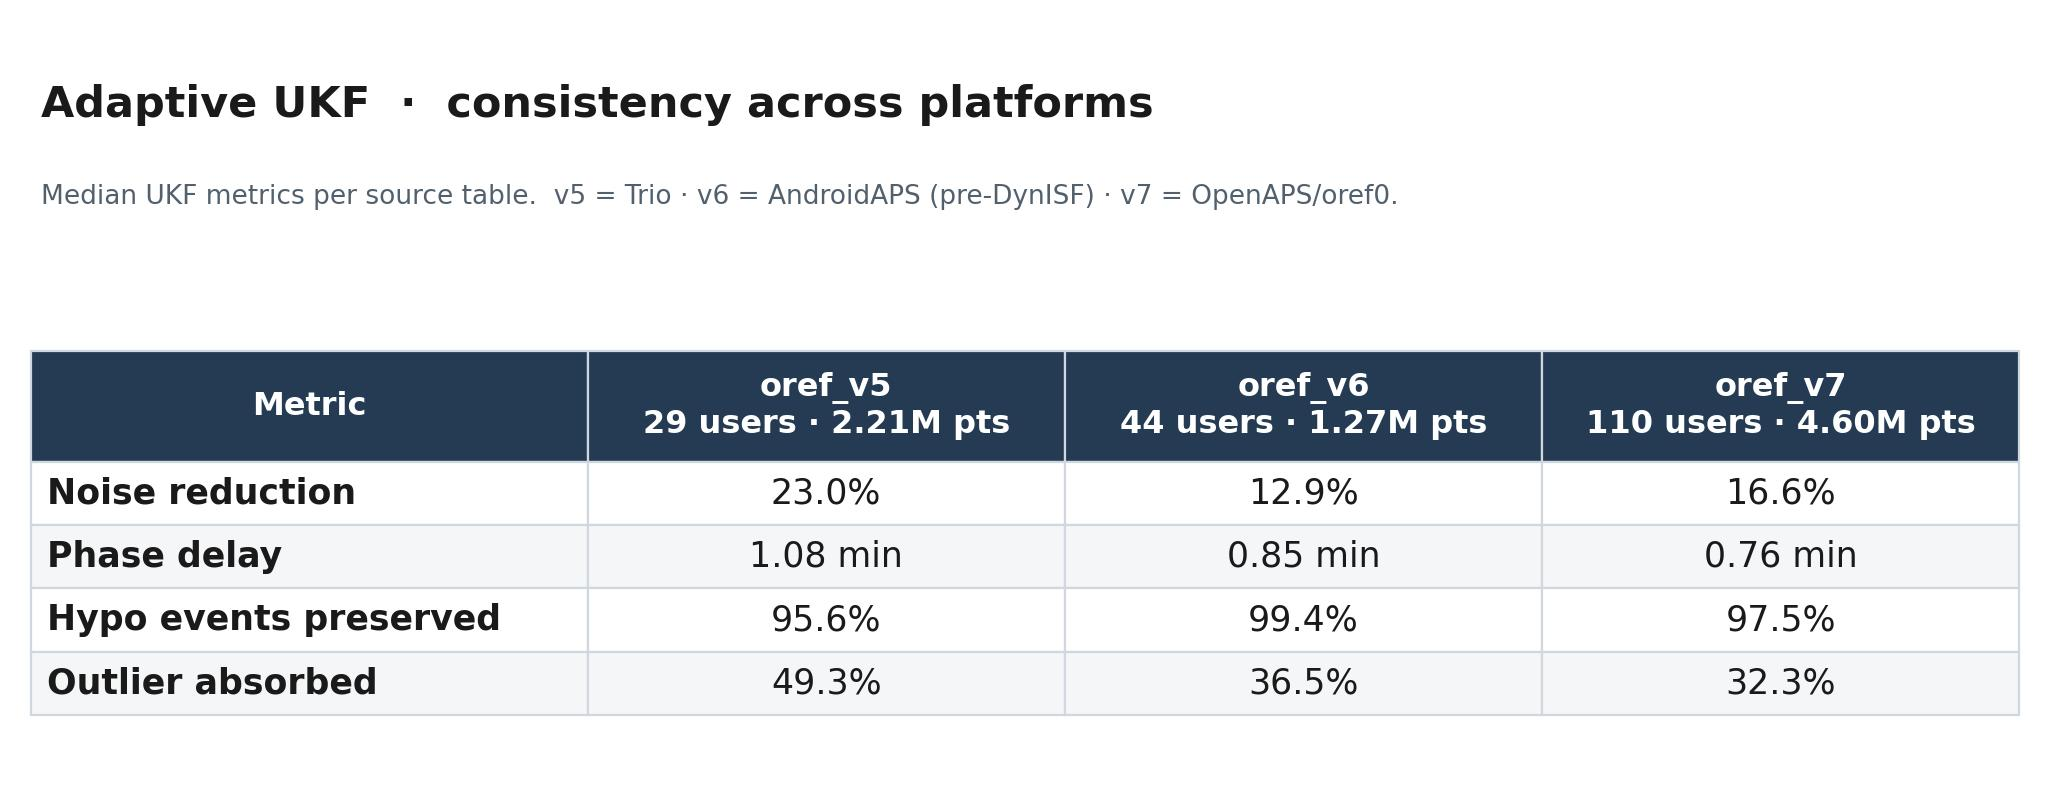
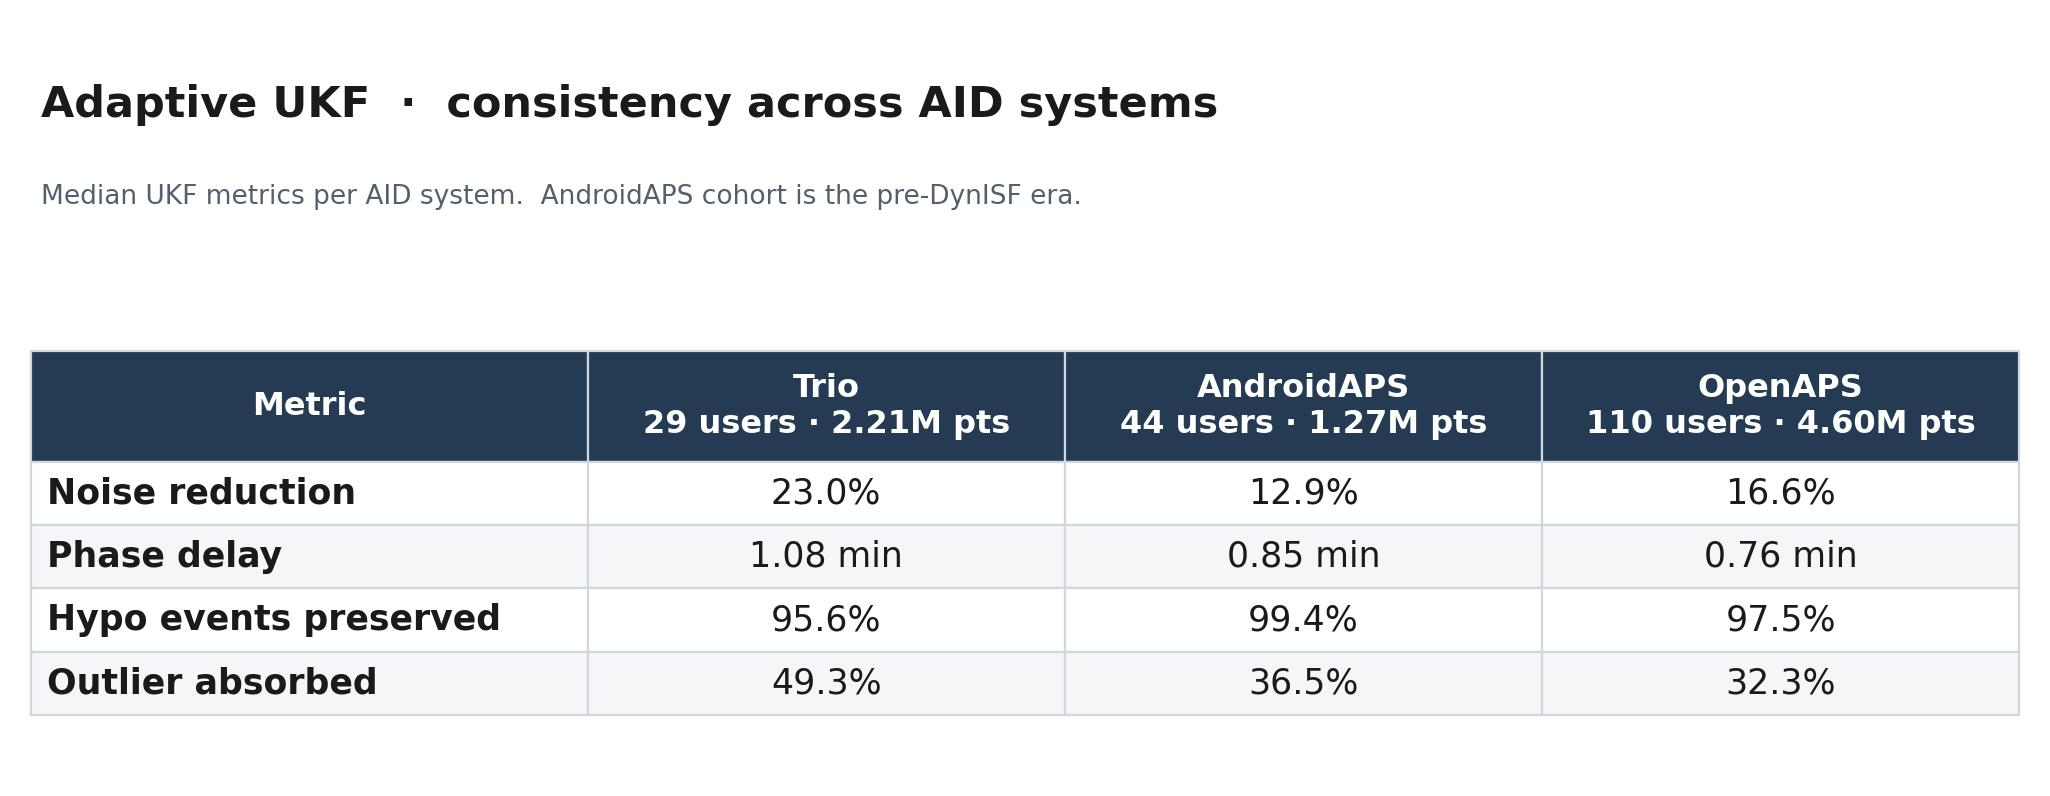
Label cohorts by AID system (Trio/AndroidAPS/OpenAPS) not oref_vx
Replace the oref_v5/v6/v7 table-name convention with the AID system name in
the reporting outputs (table figures + reports_full/README). Source-table
names kept as a one-line provenance footnote.

Claude-Session: https://claude.ai/code/session_01Va1xSAxXBTUAheaeKcDBGe

diff --git a/reports_full/make_tables.py b/reports_full/make_tables.py
@@ -88,10 +88,10 @@ render(
 # ---- Table 2: per-platform UKF breakdown ----
 render(
     "table2_ukf_by_platform.jpg",
-    "Adaptive UKF  ·  consistency across platforms",
-    "Median UKF metrics per source table.  v5 = Trio · v6 = AndroidAPS (pre-DynISF) · v7 = OpenAPS/oref0.",
-    ["Metric", "oref_v5\n29 users · 2.21M pts", "oref_v6\n44 users · 1.27M pts",
-     "oref_v7\n110 users · 4.60M pts"],
+    "Adaptive UKF  ·  consistency across AID systems",
+    "Median UKF metrics per AID system.  AndroidAPS cohort is the pre-DynISF era.",
+    ["Metric", "Trio\n29 users · 2.21M pts", "AndroidAPS\n44 users · 1.27M pts",
+     "OpenAPS\n110 users · 4.60M pts"],
     [
         ["Noise reduction",       "23.0%",    "12.9%",    "16.6%"],
         ["Phase delay",           "1.08 min", "0.85 min", "0.76 min"],
@@ -106,7 +106,7 @@ render(
 render(
     "table3_sensor_g6_g7.jpg",
     "Sensor-stratified  ·  Dexcom G6 vs G7",
-    "Sensor-tagged cohort (oref_phase2_sites_v2) · median per user · n per column · "
+    "Sensor-tagged cohort · median per user · n per column · "
     "Green = UKF beats AAPS Exponential.",
     ["Metric", "G6 · Exp\n9 users", "G6 · UKF\n238k pts", "G7 · Exp\n4 users", "G7 · UKF\n134k pts"],
     [

diff --git a/reports_full/README.md b/reports_full/README.md
@@ -9,8 +9,8 @@ the paper's conclusion holds at population scale.
 
 ## Method
 
-- Cohort: `backtest/cohort_full.json` — all **183 users** across `oref_v5`
-  (29), `oref_v6` (44), `oref_v7` (110), built by `backtest/build_full_cohort.py`
+- Cohort: `backtest/cohort_full.json` — all **183 users** across Trio (29),
+  AndroidAPS (44), OpenAPS (110), built by `backtest/build_full_cohort.py`
   (no density/cadence/span filtering; skips only users with < ~1 day of data).
   **10.9M SGV rows.**
 - Run: `python -m backtest.cli.run_backtest --cohort backtest/cohort_full.json
@@ -26,15 +26,18 @@ the paper's conclusion holds at population scale.
 strict 5-minute grid and gap handling — these are the points actually run
 through each smoother.
 
-| Source | n users | n data points |
+| AID system | n users | n data points |
 |---|---:|---:|
-| oref_v5 (Trio) | 29 | 2,205,663 |
-| oref_v6 (AndroidAPS) | 44 | 1,265,074 |
-| oref_v7 (OpenAPS/oref0) | 110 | 4,600,890 |
+| Trio | 29 | 2,205,663 |
+| AndroidAPS | 44 | 1,265,074 |
+| OpenAPS | 110 | 4,600,890 |
 | **Total** | **183** | **8,071,627** |
 
-Sensor cohort (`oref_phase2_sites_v2`, after ≥14d / ≥50% density filter):
-G6 = 9 users / 238,491 pts · G7 = 4 users / 133,917 pts (6 G7 tagged, 2 dropped).
+AID system ↔ source table: Trio = `oref_v5`, AndroidAPS = `oref_v6` (pre-DynISF era),
+OpenAPS = `oref_v7`.
+
+Sensor cohort (after ≥14d / ≥50% density filter): G6 = 9 users / 238,491 pts ·
+G7 = 4 users / 133,917 pts (6 G7 tagged, 2 dropped).
 
 ## Headline — median per user, all 183 users
 
@@ -52,8 +55,8 @@ source platforms (see `figs/table2_ukf_by_platform.jpg`).
 
 ## Sensor stratification
 
-The main tables (`oref_v5/v6/v7`) carry **no sensor field** (only `platform` =
-AID system), so the 183-user run cannot be split by sensor. Sensor identity
+The main cohorts (Trio / AndroidAPS / OpenAPS) carry **no sensor field** (only
+`platform` = AID system), so the 183-user run cannot be split by sensor. Sensor identity
 exists only in `oref_phase2_sites_v2` (9 G6 + 6 G7 users — the same cohort as
 paper 02). Re-running `phase2_run` + `phase2_analysis` on it
 (`reports_full/phase2/`) reproduces paper 02: G7 is the noisier sensor, and it
